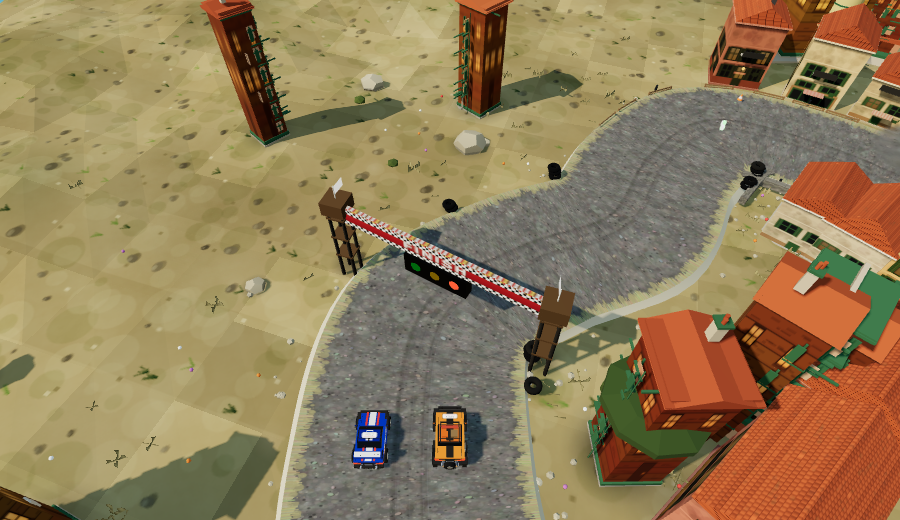
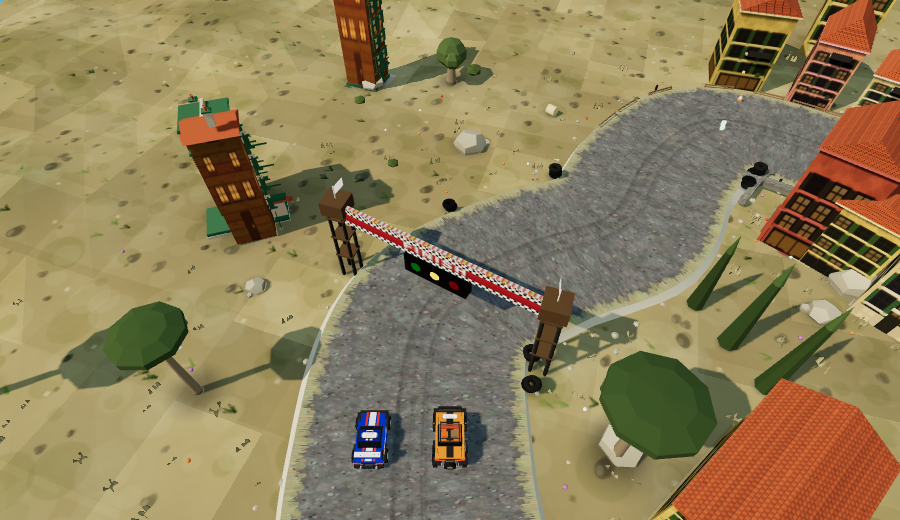
r239: follow the sheets — the arrangement, not just the models
"It is nothing like the screenshots I sent. Follow those 1:1." Fair: three
passes had gone into detailing buildings and none into how they are arranged,
and the sheets are about arrangement. Their subject is terraces — houses
sharing party walls in a continuous run down a street, four and five storeys,
three bays each, shops at the foot. Scattered free-standing towers cannot look
like that however good each one is.

1. PROPORTION AND WINDOW COUNT. The frontage was inheriting the default street:
   two-storey market-town units. BAYSETS.liguria is four and five storeys of
   three bays, and height 14 over a 7.2 unit is the sheet's own near-2:1 block.
   This is what the eye reads first, from a car, long before any moulding.
2. THE GREEN PERSIANE. Every building on every sheet shares one colour, and it
   is now the frontage's shutter; the tints are the sheet's stucco swatches.
3. TWO SYSTEMS DRAWING THE SAME TOWN. frontage builds the street wall while
   _buildHuts scattered 96 free-standing houses behind it. The scatter stands
   down to a few backland buildings wherever a frontage exists.

BUG FOUND AND FIXED: threading `set` into townhouseBays was a plain replace of
a string that appears TWICE. The second site is townhouseGlowTexture, which has
no `set` in scope, so every Riviera world died at build with "set is not
defined" — invisible to node --check. The glow texture genuinely needs the same
bayset as its facade, because its job is lighting the same openings; its own
[…]

diff --git a/src/track.js b/src/track.js
@@ -615,7 +615,7 @@ export const LEVELS = [
     // this world exists to establish the place.
     tune: {
       // the bay is the content, so the town thins out and the view opens
-      hutCount: 52, treeCount: 380,
+      hutCount: 20, treeCount: 380,
       elev: { amp: 7, ph: [0.4, 1.2, 2.0] },
     } },
 
@@ -628,7 +628,12 @@ export const LEVELS = [
     // The houses are the walls, so the hut count goes UP and the trees nearly
     // vanish: on this lap there is no verge for anything to grow in.
     tune: {
-      hutCount: 96, hutZone: [0, 1], treeCount: 120,
+      // THE FRONTAGE IS THE STREET, so the scatter stands down (r239). With
+      // both running you get a continuous terrace along the road AND a field
+      // of free-standing towers behind it — two systems drawing the same town
+      // in two different arrangements. The handful left are the backland
+      // buildings you glimpse over the roofline.
+      hutCount: 14, hutZone: [0, 1], treeCount: 120,
       bushCount: 120, rockCount: 90,
       // shade between four-storey terraces: the light barely reaches the road
       hemiIntensity: 0.7, sunIntensity: 2.15,
@@ -640,7 +645,7 @@ export const LEVELS = [
     // THE HARBOUR. `marina` runs the quays, which is stop-start by nature —
     // and the one lap on the coast where the sea is on BOTH sides of you.
     tune: {
-      hutCount: 44, treeCount: 300,
+      hutCount: 18, treeCount: 300,
       flowerCount: 180,
       elev: { amp: 4, ph: [2.2, 0.5, 1.7] },
     } },
@@ -4339,11 +4344,24 @@ THEMES.riviera = {
   // sits a shade softer and pinker than Cinque Terre's saturated coral — more
   // apricot and rose, more cream between them — and the shutters are the dark
   // green of the reference photograph, on both the frame and the louvre.
+  // THE PROPORTION IS THE DESIGN (r239). The frontage was inheriting the
+  // default street: two-storey market-town units, seven metres tall. The
+  // reference sheets are FOUR AND FIVE STOREYS OF THREE BAYS, and that ratio —
+  // tall, narrow, many windows — is what the eye reads from a car long before
+  // any moulding does. It is why three passes of detailing the models did not
+  // move it: the units were the wrong SHAPE and there were not enough windows
+  // in them.
+  //
+  // `bayset: 'liguria'` (see townhouseBays) is the window grid; `height` and
+  // `unit` are the block it is painted on. 14 u over a 7.2 u unit is very
+  // nearly 2:1, which is the sheet's own proportion.
   frontage: {
-    tints: ['#e9a86a', '#efc07e', '#dd8f7e', '#f0d9ac', '#d98a6e', '#f4e6cc', '#e2b48c'],
+    lateral: 15.0, depth: 8.5, unit: 7.2, height: 14.0, run: [6, 12], rows: 5,
+    bayset: 'liguria',
+    tints: ['#f0d98a', '#e8b45c', '#e8a2a6', '#c4655a', '#f4e6cc', '#bccbb0', '#e2ac7c'],
     roof: 0xb85a30,
-    face: { render: '#f2e7d2', plinth: '#b09070', trim: '#f8efdc',
-      frame: '#3d6b47', shutter: '#3d6b47' },
+    face: { render: '#ecd79b', plinth: '#cfc3a4', trim: '#f6efdd',
+      frame: '#2b2b26', shutter: '#3d6b47', pane: '#1b2028' },
   },
 };
 
@@ -4353,7 +4371,8 @@ THEMES.riviera = {
 THEMES.genova = {
   ...THEMES.riviera,
   elements: 'genova',
-  hutCount: 108, hutZone: [0, 1],
+  // same as the budello: a city is its street walls, not a scatter
+  hutCount: 18, hutZone: [0, 1],
   treeCount: 190, bushCount: 200, flowerCount: 120,
   // a city ground: worn stone and asphalt, not beach sand
   terrainLow: '#6e6a56', terrainHigh: '#9a9182', terrainDirt: '#87806f',
@@ -16387,7 +16406,7 @@ export class Track {
     const VARIANTS = 4;
     const SLOTS = VARIANTS * 2;
     const faceTexes = [];
-    for (let v = 0; v < VARIANTS; v++) faceTexes.push(townhouseTexture(F.face, v));
+    for (let v = 0; v < VARIANTS; v++) faceTexes.push(townhouseTexture(F.face, v, F.bayset));
     const faceTex = faceTexes[0];
     faceTex.anisotropy = 4;
     const bodyMat = new THREE.MeshStandardMaterial({
@@ -16417,7 +16436,7 @@ export class Track {
       const m = bodyMat.clone();
       m.map = tex;
       tex.anisotropy = 4;
-      m.emissiveMap = townhouseGlowTexture(F.glow, v, dark ? 0.13 : 0.6);
+      m.emissiveMap = townhouseGlowTexture(F.glow, v, dark ? 0.13 : 0.6, F.bayset);
       m.emissiveIntensity = (this.T.hutGlow ?? 1) * (dark ? 0.75 : 1);
       const im = new THREE.InstancedMesh(bodyGeo, m, Math.ceil(MAX / 3));
       im.name = 'oldtown-frontage';

diff --git a/src/textures.js b/src/textures.js
@@ -1800,8 +1800,34 @@ const TH_SHOP = [22, 200, 148, 44];        // ground-floor glazing
  *  several hundred times. A variant picks how many storeys and how many bays
  *  per storey, and whether the ground floor is a shop or a plain wall with a
  *  door, which is the difference between a merchant terrace and a cottage. */
-export function townhouseBays(variant = 0) {
-  const V = [
+/** LIGURIA IS ITS OWN SET OF BAYS.
+ *
+ *  The default variants are a northern market town: one to three storeys, two
+ *  bays, a shop at the foot. A Ligurian seafront terrace is FOUR AND FIVE
+ *  storeys of three bays, which is the single biggest reason the first Alassio
+ *  did not look like the reference — the proportion and the window COUNT are
+ *  what the eye reads from a car, long before any moulding does.
+ *
+ *  Kept as a separate set rather than added to the list, because the default
+ *  variants are shared with the old town and Monte Carlo and those are not
+ *  Ligurian towns.
+ */
+const BAYSETS = {
+  liguria: [
+    // 4 storeys, 3 bays, shop — the standard terrace unit
+    { rows: [56, 106, 156, 206], xs: [22, 78, 134], shop: true },
+    // 5 storeys, 3 bays — the tall one in the run
+    { rows: [40, 84, 128, 172, 214], xs: [22, 78, 134], shop: true },
+    // 4 storeys, 2 bays — the narrow infill between two wider neighbours
+    { rows: [56, 106, 156, 206], xs: [40, 106], shop: false },
+    // 5 storeys, 3 bays, no shop — the residential end of the street
+    { rows: [40, 84, 128, 172, 214], xs: [22, 78, 134], shop: false },
+  ],
+};
+
+export function townhouseBays(variant = 0, set = null) {
+  const list = BAYSETS[set];
+  const V = list ? list[variant % list.length] : [
     { rows: [96, 164], xs: [30, 114], shop: true },        // 2 storeys, 2 bays, shop
     { rows: [110], xs: [30, 114], shop: false },           // cottage: 1 storey, no shop
     { rows: [72, 132, 190], xs: [40, 106], shop: true },   // tall merchant house
@@ -1809,11 +1835,14 @@ export function townhouseBays(variant = 0) {
     { rows: [120], xs: [66], shop: true },                 // narrow single-bay shop
   ][variant % 5];
   const bays = [];
-  for (const y of V.rows) for (const x of V.xs) bays.push([x, y, V.xs.length > 2 ? 38 : 48, 52]);
+  // a five-storey face has to fit its openings into the same panel, so the
+  // opening HEIGHT comes off the row count rather than being a constant
+  const bh = V.rows.length >= 5 ? 34 : V.rows.length === 4 ? 40 : 52;
+  for (const y of V.rows) for (const x of V.xs) bays.push([x, y, V.xs.length > 2 ? 38 : 48, bh]);
   return { bays, shop: V.shop };
 }
 
-export function townhouseTexture(palette = {}, variant = 0) {
+export function townhouseTexture(palette = {}, variant = 0, set = null) {
   const P = {
     render: '#b9ad98',            // limewashed render (tinted per instance)
     plinth: '#6e6a63',            // granite plinth + shopfront surround
@@ -1823,7 +1852,7 @@ export function townhouseTexture(palette = {}, variant = 0) {
     pane: '#171c26',              // unlit glass — never transparent (G7)
     ...palette,
   };
-  const VB = townhouseBays(variant);
+  const VB = townhouseBays(variant, set);
   const TH_BAYS = VB.bays;
   const t = make(TH_W, TH_H, (g, w, h) => {
     g.fillStyle = P.render;
@@ -1931,9 +1960,14 @@ export function townhouseTexture(palette = {}, variant = 0) {
  *  Per variant now, and `litFrac` sets how much of the building is awake, so a
  *  street can hold dark houses next to lit ones.
  */
-export function townhouseGlowTexture(palette = {}, variant = 0, litFrac = 0.55) {
+export function townhouseGlowTexture(palette = {}, variant = 0, litFrac = 0.55, set = null) {
   const P = { warm: '#ffb347', hot: '#ffd489', shop: '#f2a93b', ...palette };
-  const VB = townhouseBays(variant);
+  // THE SET HAS TO COME THROUGH HERE TOO. This texture's whole job is to light
+  // the SAME openings the facade drew, and its own note above records what
+  // happens when the two disagree: lit rectangles that land on blank wall. A
+  // Ligurian facade has five rows of three where the default has two of two,
+  // so passing the set to one and not the other is that bug, restaged.
+  const VB = townhouseBays(variant, set);
   const BAYS = VB.bays;
   const t = make(TH_W, TH_H, (g, w, h) => {
     g.fillStyle = '#000000';

diff --git a/index.html b/index.html
@@ -1950,7 +1950,7 @@
 </div>
 <div id="damage-vignette"></div>
 <div id="polish-vignette"></div>
-<div id="build-tag">r238</div>
+<div id="build-tag">r239</div>
 <div id="fade"></div>
 <div id="build-veil"></div>
 
@@ -2277,10 +2277,10 @@
   // its URL + anon key here. Leave empty to keep sync codes only.
   window.IGNITE_SYNC = { url: '', key: '' };
 </script>
-<script type="module" src="./src/main.js?v=r238"></script>
+<script type="module" src="./src/main.js?v=r239"></script>
 <!-- offline arming: registers sw.js and drives the flight badge -->
-<script src="./src/offline.js?v=r238"></script>
+<script src="./src/offline.js?v=r239"></script>
 <!-- rural traffic: self-attaching, polls window.__game (no engine hooks) -->
-<script type="module" src="./src/traffic.js?v=r238"></script>
+<script type="module" src="./src/traffic.js?v=r239"></script>
 </body>
 </html>

diff --git a/sw.js b/sw.js
@@ -16,7 +16,7 @@
  * CACHE is bumped by the release version. Bump it whenever ?v= in index.html
  * is bumped, or phones will keep serving the previous build forever.
  */
-const CACHE = 'ignite-rally-r238';
+const CACHE = 'ignite-rally-r239';
 
 // ---- CORE vs EXTRA ---------------------------------------------------------
 // CORE is everything the game needs to RUN with the radio off: the shell, the

diff --git a/HANDOVER.md b/HANDOVER.md
@@ -1611,3 +1611,51 @@ Applied at both sites now: cylinders 10 -> 16 segments, cones 10 -> 14.
 IL BUDELLO: 464k -> 503k triangles, draw calls still 319. element-cyl 64k ->
 102k, which is what a hundred buildings' worth of balusters, downpipes, chimney
 pots, arcade columns and corner drums costs to stop being decagons.
+
+## r239 — THE ARRANGEMENT WAS THE PROBLEM, NOT THE MODELS
+"It is nothing like the screenshots I sent. Follow those 1:1."
+
+Fair. Three passes had gone into DETAILING buildings and none into how they are
+ARRANGED, and the reference sheets are about arrangement: their subject is
+TERRACES — houses sharing party walls in a continuous run down both sides of a
+street, four and five storeys, three bays each, shops at the foot. Free-standing
+towers scattered in a field cannot look like that however good each one is.
+
+Three concrete gaps, all now closed:
+  1. PROPORTION AND WINDOW COUNT. The frontage inherited the default street:
+     two-storey market-town units. `BAYSETS.liguria` in textures.js is four and
+     five storeys of three bays, and `height: 14 / unit: 7.2` is the sheet's
+     own near-2:1 block. This is the one the eye reads first, from a car, long
+     before any moulding.
+  2. THE GREEN PERSIANE. Every building on every sheet shares one colour: the
+     dark green shutter. It is now the frontage's `shutter` AND the tint list
+     is the sheet's own stucco swatches in order.
+  3. TWO SYSTEMS DRAWING THE SAME TOWN. `frontage` builds the street wall and
+     `_buildHuts` scattered 96 free-standing houses behind it, so the budello
+     had a terrace along the road AND a field of towers. The scatter stands
+     down to a handful of backland buildings where a frontage exists.
+
+### THE BUG: `str.replace` REPLACES EVERY OCCURRENCE
+Threading `set` into `townhouseBays` was written as a plain Python replace of
+`const VB = townhouseBays(variant);` — which hit TWO call sites. The second is
+`townhouseGlowTexture`, which has no `set` in scope, so every Riviera world
+died at build with "set is not defined" and `node --check` saw nothing wrong.
+The fix is not just scoping: the glow texture MUST take the same bayset as the
+facade, because its whole job is lighting the same openings — its own header
+records the earlier bug where lit rectangles landed on blank wall.
+
+Use an explicit count assertion on every replace. r237's segment bump was lost
+to the same class of mistake in the other direction.
+
+### STILL NOT 1:1, and worth naming
+  - The street wall is ONE-SIDED at the start line. The frontage validates each
+    block against the carriageway and the grid start is open ground, so the
+    inside of that corner stays bare.
+  - The ground is still sand. A town street should be paved to the building
+    line; `riviera` inherits a beach ground from `medterrace`.
+  - The corner building is a drum (r237). The sheets draw a CHAMFERED corner
+    with a ground-floor arcade. There is no per-part yaw, so a true chamfer
+    needs either a new primitive or a yawed sub-group.
+
+boot.mjs 4/4, test-boot 7/0, test-buildings green, test-ladder 31/0,
+test-timeline 33/0.
